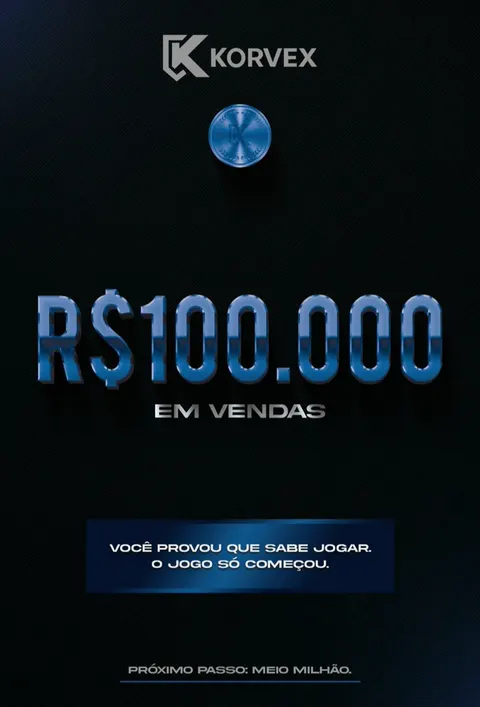
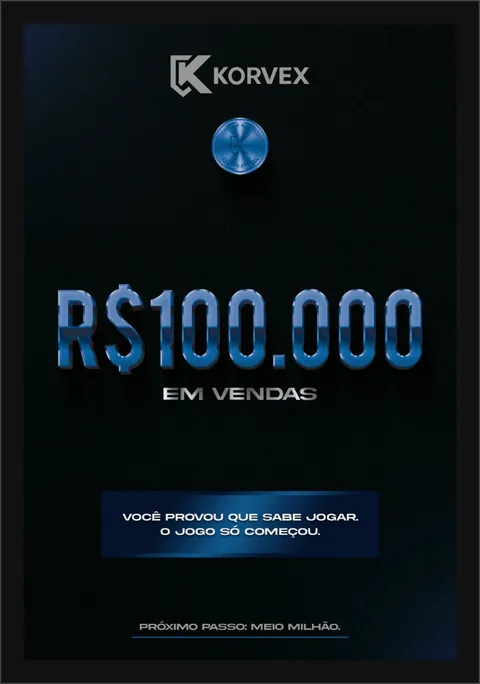
Placas ganham moldura e passam a aparecer inteiras
As artes que estavam no site eram a impressão, sem a moldura física. Na
pasta "Korvex Site" do Desktop os arquivos individuais também são só a
arte; a moldura aparece apenas em "TODAS PLACAS JUNTAS.png", que tem
702x355 e é baixa demais para recortar. Então a moldura foi recomposta
sobre as artes em alta, seguindo essa referência: face preta fosca com
5,5% da largura, fio interno escuro e fio externo claro.

As três placas foram regeradas em 480 e 960, agora com a moldura:
1206x1720, 1258x1724 e 1309x1730 na origem. Ficaram 43 KB mais leves que
as anteriores no total, e a pasta de assets caiu de 432 KB para 404 KB.

object-fit passou de cover para contain nas placas, no desktop e no
celular. A placa é uma peça emoldurada; recortá-la para encher a moldura
do card tira justamente a moldura. Medido: 0% de corte nos dois tamanhos,
contra 16% no carrossel e 34% na placa do milhão.

Premiações: 1.147px para 1.230px no celular, 1.560px para 1.582px no
desktop. Sem overflow e sem erro de console em 375, 768 e 1440.

diff --git a/src/styles/global.css b/src/styles/global.css
@@ -367,7 +367,7 @@ body {
     linear-gradient(calc(115deg + var(--rx, 0deg) * 3), transparent 35%, rgba(255, 255, 255, 0.10) 50%, transparent 65%);
 }
 .tier:hover .tier-img::after { opacity: 1; }
-.tier-img img { width: 100%; height: 100%; object-fit: cover; }
+.tier-img img { width: 100%; height: 100%; object-fit: contain; }
 .tier-img.bracelet {
   padding: 24px;
   background: radial-gradient(circle at 50% 60%, rgba(184, 192, 204, 0.08), transparent 60%), #070B12;
@@ -412,7 +412,7 @@ body {
   border: 1px solid rgba(201, 163, 94, 0.22);
 }
 .mil-img { aspect-ratio: auto; min-height: 440px; height: 100%; position: relative; overflow: hidden; }
-.mil-img img { width: 100%; height: 100%; object-fit: cover; }
+.mil-img img { width: 100%; height: 100%; object-fit: contain; padding: 18px 0; }
 @media (max-width: 1024px) {
   .mil-stage { grid-template-columns: 1fr; }
   .mil-img { aspect-ratio: 16/10; min-height: 0; height: auto; }
@@ -428,10 +428,10 @@ body {
   /* as artes das placas têm proporções diferentes entre si (0,679 a 0,800) e o
      recorte comia o rodapé; contain mostra o pôster inteiro e mantém a altura */
   .tier-compact .tier-img { aspect-ratio: 1 / 1; }
-  .tier-compact .tier-img:not(.bracelet) img { object-fit: contain; padding: 6px; }
+  .tier-compact .tier-img:not(.bracelet) img { object-fit: contain; padding: 2px; }
   /* a placa do milhão perdia 34% do topo (logo e selo) no recorte panorâmico */
-  .mil-img { aspect-ratio: 4 / 3; }
-  .mil-img img { object-fit: contain; padding: 10px 0; }
+  .mil-img { aspect-ratio: 1 / 1; }
+  .mil-img img { object-fit: contain; padding: 14px 0; }
 }
 
 /* ---------- Taxas / payouts ---------- */
